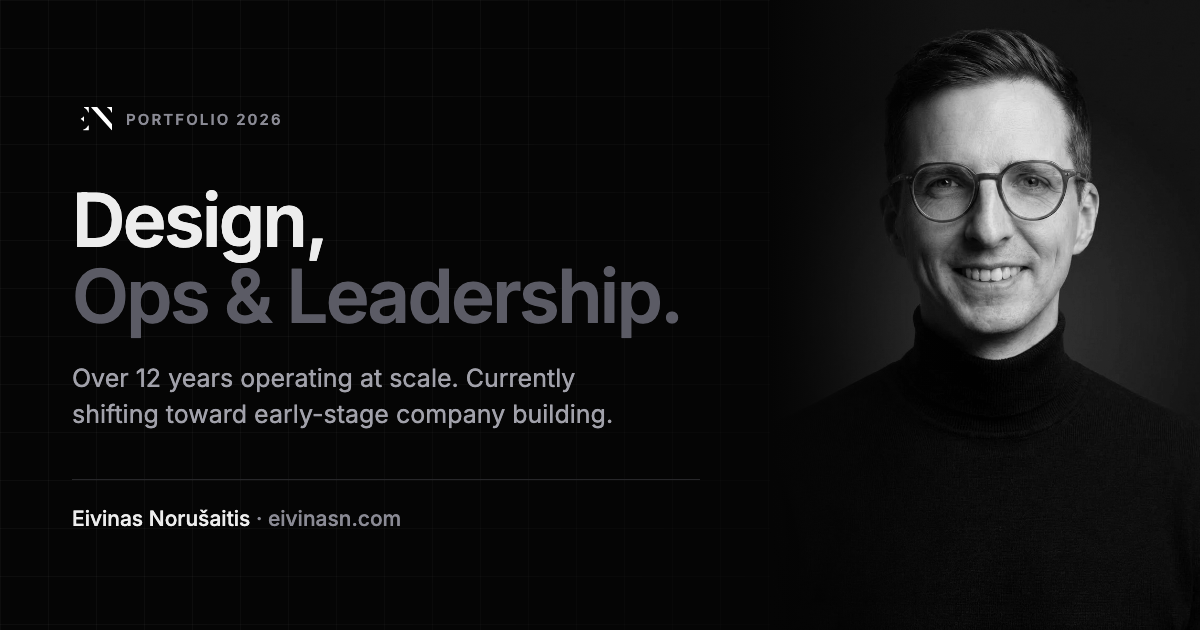
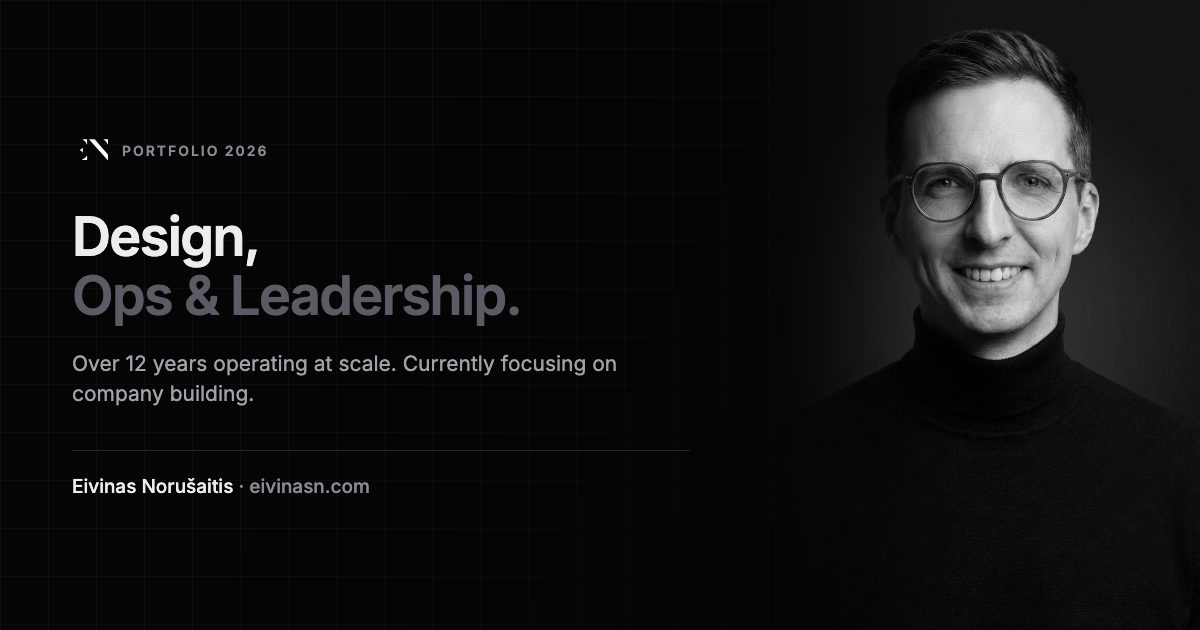
Per-page OG cards, a mobile perf gate, and three accessibility fixes
Per-page share cards. All four case studies shared the homepage card, so a link
to any of them unfurled as the homepage — which defeats the point of a card.
generate-og.mjs now produces five: one per case study with its own title, tag,
blurb and thumbnail. CaseStudyLayout derives the image from the route rather
than taking a prop, because one more prop is one more thing a new case study can
forget, and it falls back to the homepage card if a slug has no image.

The script also stopped pulling Inter from Google Fonts and now inlines the
self-hosted subset. Previously a network failure would have silently produced a
fallback-face card. Added a 900 KB ceiling that fails the build: a card too
heavy to fetch does not unfurl, and that failure is invisible.

Mobile performance gate. Every measurement in this repo was taken at one
desktop width on an unthrottled connection, which is how a 320px horizontal
overflow reached production. measure-perf.mjs now also runs 390px with 4x CPU
throttling and a slow-4G profile via CDP, judged against Core Web Vitals
thresholds. Measured on this build: 107.7 KB / LCP 648 ms on the homepage,
81.0 KB / LCP 772 ms on a case study, CLS 0 on both. Budget set at 2500 ms —
real headroom, still tight enough to catch a regression.

Three accessibility fixes:
- The case-study nav was aria-label="Breadcrumb" around a single back link, so
  a screen reader announced breadcrumb navigation and then offered one button.
[…]

diff --git a/src/styles/global.css b/src/styles/global.css
@@ -68,13 +68,17 @@ body {
   scrollbar-width: none;
 }
 
+/* No will-change here or on the reveal classes. It was declared permanently on
+   ~25 elements and never cleared, so every one held its own compositor layer
+   for the life of the page — on top of translate3d and backface-visibility
+   already asking for the same promotion. The animations are opacity and
+   transform, which composite anyway. */
 .glass-panel {
   background: rgba(20, 20, 20, 0.7);
   backdrop-filter: blur(20px);
   -webkit-backdrop-filter: blur(20px);
   border: 1px solid rgba(255, 255, 255, 0.08);
   transform: translateZ(0);
-  will-change: transform;
   isolation: isolate;
 }
 
@@ -93,7 +97,6 @@ body {
   animation: fadeInUp 0.8s cubic-bezier(0.2, 0.8, 0.2, 1) forwards;
   opacity: 0;
   backface-visibility: hidden;
-  will-change: opacity, transform;
 }
 .reveal-on-scroll {
   opacity: 0;
@@ -102,7 +105,6 @@ body {
     opacity 0.7s ease-out,
     transform 0.7s cubic-bezier(0.2, 0.8, 0.2, 1);
   backface-visibility: hidden;
-  will-change: opacity, transform;
   contain: paint;
 }
 .reveal-on-scroll.is-visible {
@@ -112,14 +114,12 @@ body {
 .backdrop-blur-md {
   transform: translateZ(0);
   -webkit-transform: translateZ(0);
-  will-change: transform;
 }
 
 /* Opacity-only reveal disabled */
 .reveal-opacity-only {
   opacity: 0;
   transition: opacity 500ms ease-out;
-  will-change: opacity;
 }
 .reveal-opacity-only.is-visible {
   opacity: 1;

diff --git a/src/layouts/CaseStudyLayout.css b/src/layouts/CaseStudyLayout.css
@@ -3,7 +3,6 @@
   opacity: 0;
   transform: translate3d(0, 12px, 0);
   backface-visibility: hidden;
-  will-change: opacity, transform;
 }
 @keyframes fadeIn {
   to {
